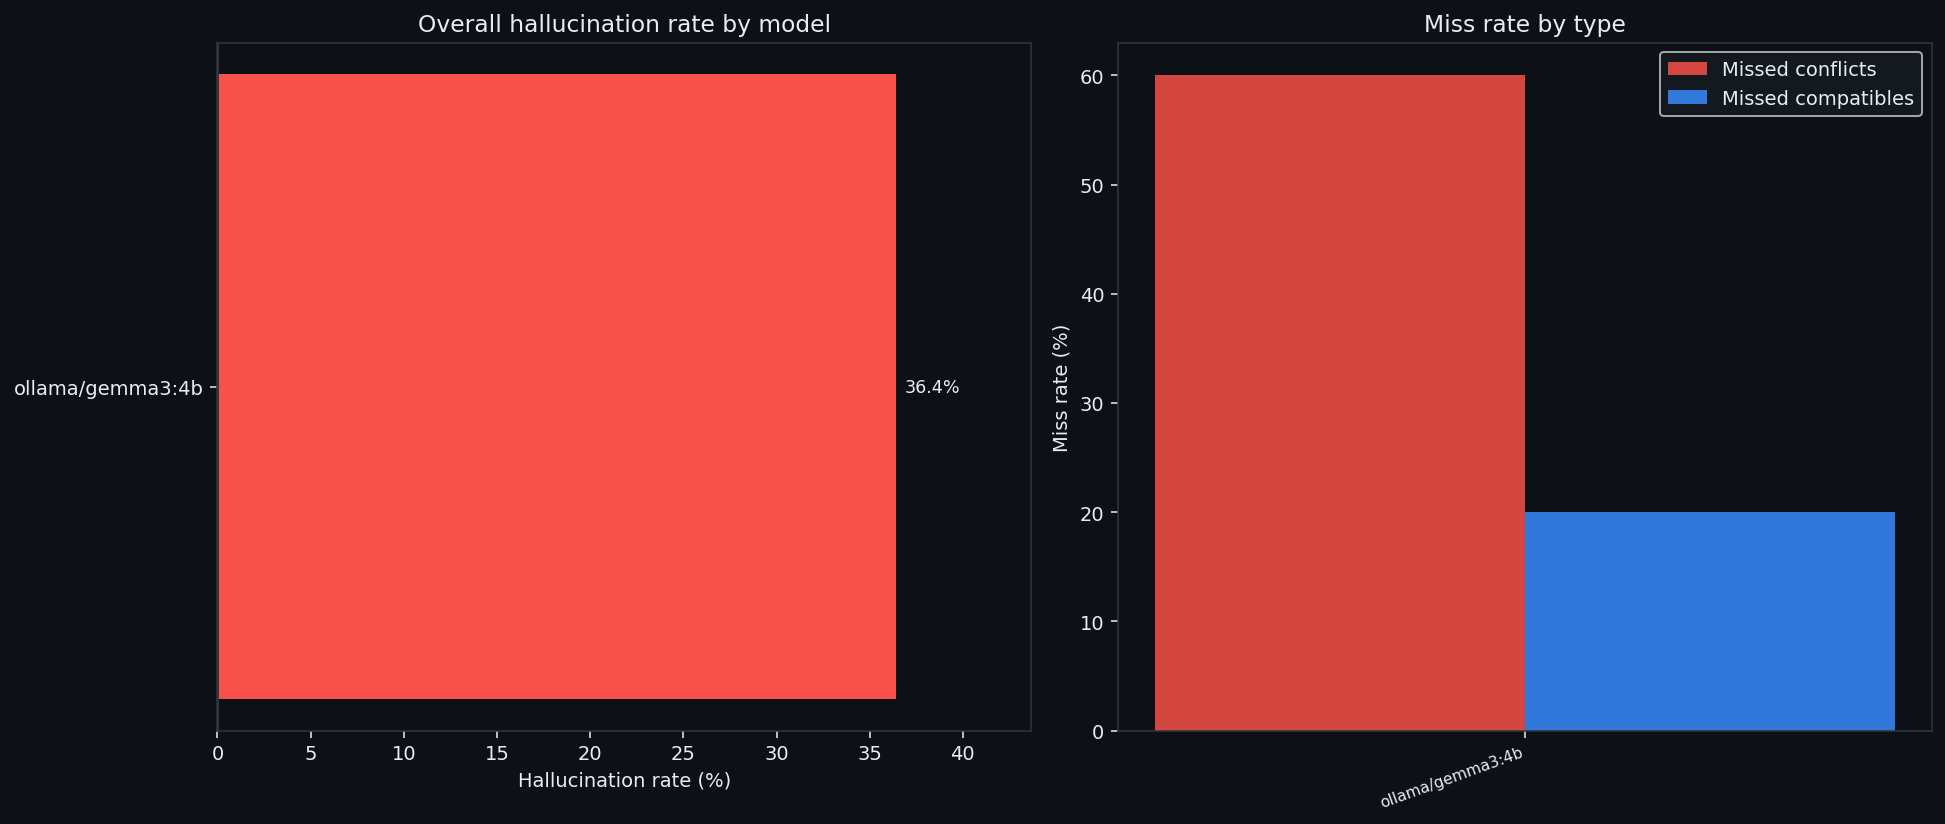
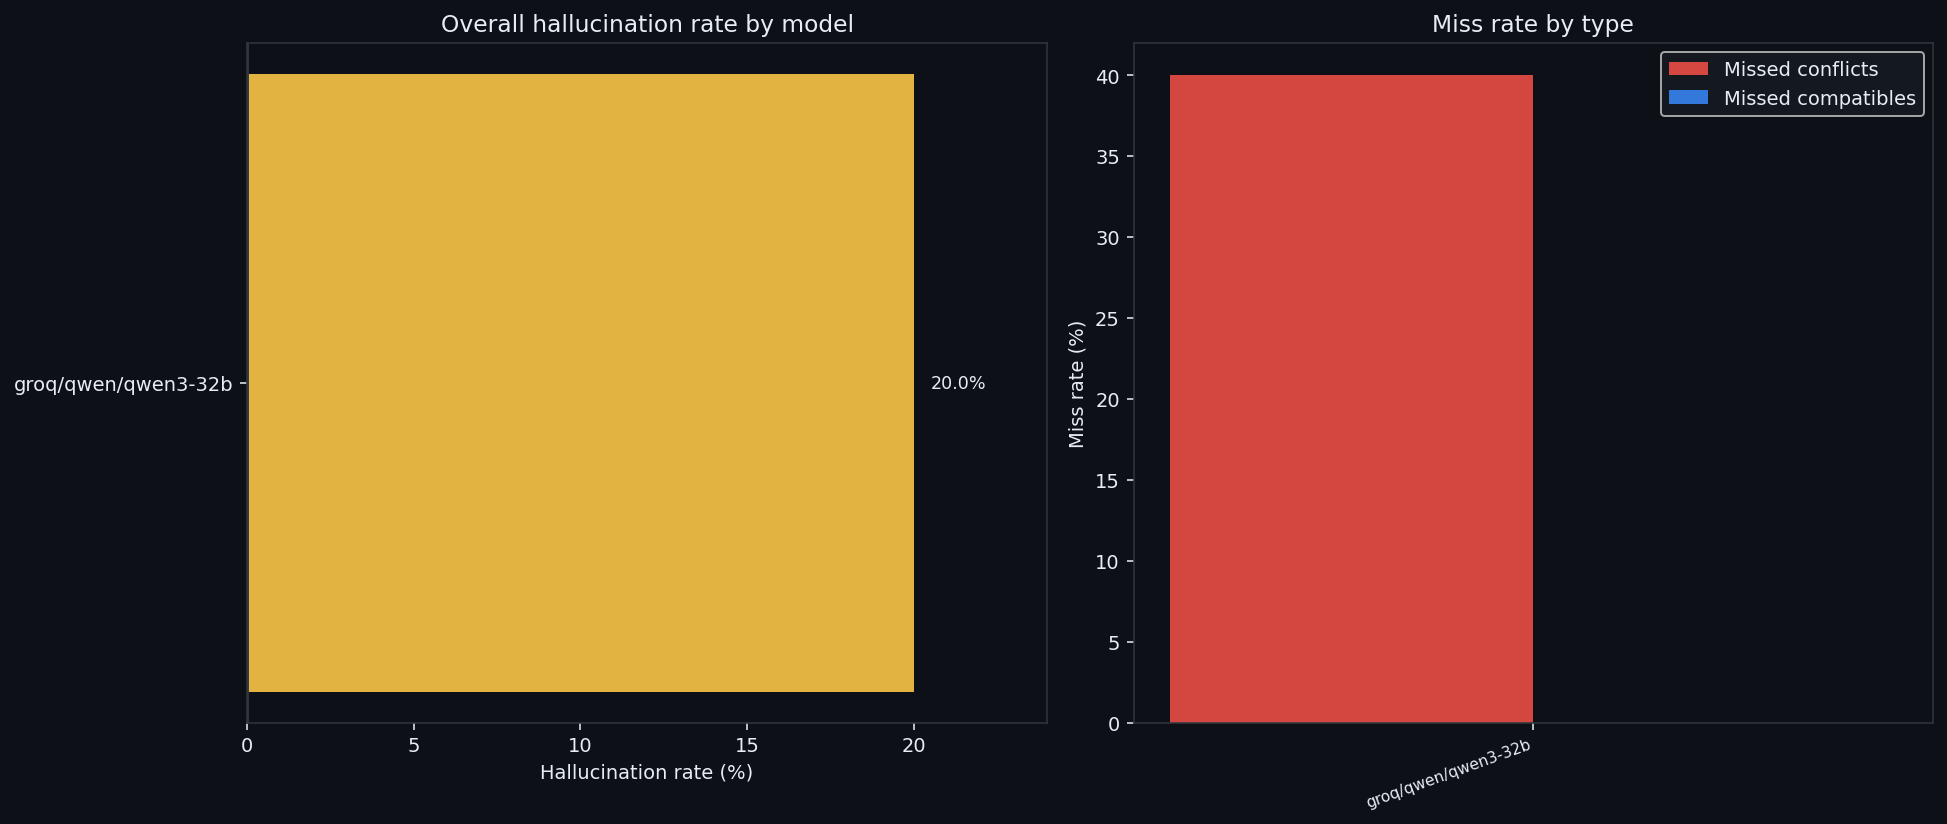
Add variable curve infrastructure and qwen3-32b results
- benchmark.py: --vars flag, expression pools for 5/7/10 vars,
  fix variable regex to A-Z, --no-think for thinking models,
  exponential backoff on 429 rate limits, User-Agent fix for Groq
- curve.py: runs one model across variable counts (3,5,7,10),
  saves to results/curve/
- curve_plot.py: plots hallucination rate vs complexity per model
- images/curve.png: qwen3-32b flat at 16-19% across all var counts

diff --git a/curve.py b/curve.py
@@ -1,0 +1,132 @@
+#!/usr/bin/env python3
+"""
+curve.py — Run one model across variable counts to find its breaking point.
+
+Usage:
+  python3 curve.py --provider groq --model llama-3.1-8b-instant --cases 100
+  python3 curve.py --provider ollama --model gemma3:4b --cases 20
+
+Results saved to results/curve/{model}/{n}vars_{timestamp}.json
+"""
+
+import os
+import sys
+import json
+import argparse
+from datetime import datetime
+
+sys.path.insert(0, os.path.dirname(os.path.abspath(__file__)))
+
+from rich.console import Console
+from rich.table import Table
+from rich import box
+
+from benchmark import generate_cases, verify_with_z3, run_benchmark, build_providers
+
+console = Console()
+
+VAR_COUNTS = [3, 5, 7, 10]
+
+
+def save_curve_result(summary: dict, n_vars: int):
+    model = summary["model"]
+    safe_model = model.replace("/", "_").replace(":", "-")
+    ts = datetime.now().strftime("%Y%m%d_%H%M%S")
+    path = os.path.join("results", "curve", safe_model)
+    os.makedirs(path, exist_ok=True)
+    filename = os.path.join(path, f"{n_vars}vars_{ts}.json")
+    summary["n_vars"] = n_vars
+    with open(filename, "w") as f:
+        json.dump(summary, f, indent=2)
+    return filename
+
+
+def print_curve_summary(model_name: str, curve: list):
+    table = Table(
+        title=f"[bold white]Variable curve — {model_name}[/bold white]",
+        box=box.SIMPLE_HEAVY, border_style="blue", expand=False,
+    )
+    table.add_column("vars (n)", style="cyan", justify="center")
+    table.add_column("truth table rows", style="dim", justify="right")
+    table.add_column("hallucination rate", justify="center")
+    table.add_column("missed conflicts", justify="center")
+    table.add_column("missed compatibles", justify="center")
+
+    for entry in curve:
+        n = entry["n_vars"]
+        rate = entry["hallucination_rate"]
+        colour = "red" if rate > 60 else "yellow" if rate > 30 else "green"
+        mc = entry.get("missed_conflicts", 0)
+        mp = entry.get("missed_compat", 0)
+        half = entry["total"] // 2
+        table.add_row(
+            str(n),
+            str(2 ** n),
+            f"[{colour}]{rate:.1f}%[/{colour}]",
+            f"{mc}/{half}",
+            f"{mp}/{half}",
+        )
+
+    console.print(table)
+
+
+if __name__ == "__main__":
+    parser = argparse.ArgumentParser(description="Variable curve benchmark")
+    parser.add_argument("--provider", choices=["ollama", "groq", "openai", "anthropic"],
+                        default="groq")
+    parser.add_argument("--model", default="llama-3.1-8b-instant")
+    parser.add_argument("--cases", type=int, default=100,
+                        help="Cases per variable count (split 50/50)")
+    parser.add_argument("--workers", type=int, default=8)
+    parser.add_argument("--seed", type=int, default=42)
+    parser.add_argument("--vars", nargs="+", type=int, default=VAR_COUNTS,
+                        help="Variable counts to test (default: 3 5 7 10)")
+    parser.add_argument("--no-think", action="store_true",
+                        help="Prepend /no_think to prompt (for qwen3 and other thinking models)")
+    parser.add_argument("--web", action="store_true",
+                        help="Stream results to live dashboard at localhost:8080")
+    args = parser.parse_args()
+
+    args.all = False
+    providers = build_providers(args)
+    if not providers:
+        print("No providers configured. Check API keys or --provider flag.")
+        sys.exit(1)
+    provider = providers[0]
+
+    dashboard = None
+    if args.web:
+        from dashboard import Dashboard
+        dashboard = Dashboard(port=8080)
+        dashboard.start()
+        console.print("[bold blue]Dashboard:[/bold blue] http://localhost:8080")
+
+    n_each = max(1, args.cases // 2)
+    curve = []
+
+    for n_vars in sorted(args.vars):
+        console.print(f"\n[bold blue]── n={n_vars} vars  ({2**n_vars} truth table rows) ──[/bold blue]")
+        cases = generate_cases(n_each=n_each, seed=args.seed, n_vars=n_vars)
+        if not verify_with_z3(cases):
+            console.print(f"[red]z3 verification failed at n={n_vars} — skipping.[/red]")
+            continue
+        summary = run_benchmark(provider, cases, workers=args.workers, dashboard=dashboard,
+                               no_think=args.no_think)
+        if summary:
+            summary["n_vars"] = n_vars
+            path = save_curve_result(summary, n_vars)
+            console.print(f"[dim]Saved: {path}[/dim]")
+            curve.append(summary)
+
+    if curve:
+        console.print()
+        print_curve_summary(provider.name, curve)
+        console.print("\n[dim]Run curve_plot.py to generate the chart.[/dim]")
+
+    if dashboard:
+        import threading
+        console.print("\n[dim]Dashboard still running at http://localhost:8080 — Ctrl+C to exit.[/dim]")
+        try:
+            threading.Event().wait()
+        except KeyboardInterrupt:
+            pass

diff --git a/curve_plot.py b/curve_plot.py
@@ -1,0 +1,94 @@
+#!/usr/bin/env python3
+"""
+curve_plot.py — Plot hallucination rate vs variable count for each model.
+
+Reads all JSONs under results/curve/ and produces images/curve.png.
+
+Usage:
+  python3 curve_plot.py
+"""
+
+import os
+import json
+import glob
+from collections import defaultdict
+
+import matplotlib
+matplotlib.use("Agg")
+import matplotlib.pyplot as plt
+
+RESULTS_DIR = os.path.join("results", "curve")
+OUT_PATH    = os.path.join("images", "curve.png")
+
+BG      = "#0d1117"
+BG2     = "#161b22"
+BORDER  = "#30363d"
+TEXT    = "#e6edf3"
+MUTED   = "#8b949e"
+
+PALETTE = [
+    "#58a6ff", "#3fb950", "#f85149", "#d29922",
+    "#bc8cff", "#ff7b72", "#79c0ff", "#56d364",
+]
+
+
+def load_results() -> dict:
+    model_data = defaultdict(dict)
+    pattern = os.path.join(RESULTS_DIR, "**", "*.json")
+    for path in glob.glob(pattern, recursive=True):
+        with open(path) as f:
+            data = json.load(f)
+        model = data.get("model", "unknown")
+        n_vars = data.get("n_vars")
+        if n_vars is None:
+            continue
+        # keep latest result per (model, n_vars)
+        if n_vars not in model_data[model] or data["timestamp"] > model_data[model][n_vars]["timestamp"]:
+            model_data[model][n_vars] = data
+    return model_data
+
+
+def plot(model_data: dict):
+    if not model_data:
+        print("No curve results found in results/curve/ — run curve.py first.")
+        return
+
+    fig, ax = plt.subplots(figsize=(10, 6))
+    fig.patch.set_facecolor(BG)
+    ax.set_facecolor(BG)
+
+    for i, (model, by_vars) in enumerate(sorted(model_data.items())):
+        xs = sorted(by_vars.keys())
+        ys = [by_vars[n]["hallucination_rate"] for n in xs]
+        colour = PALETTE[i % len(PALETTE)]
+        ax.plot(xs, ys, marker="o", linewidth=2, markersize=7,
+                color=colour, label=model)
+        for x, y in zip(xs, ys):
+            ax.annotate(f"{y:.0f}%", (x, y),
+                        textcoords="offset points", xytext=(0, 8),
+                        ha="center", fontsize=8, color=colour)
+
+    ax.set_xlabel("Variable count (n)", color=TEXT, fontsize=11)
+    ax.set_ylabel("Hallucination rate (%)", color=TEXT, fontsize=11)
+    ax.set_title("LLM hallucination rate vs logical complexity",
+                 color=TEXT, fontsize=13, pad=14)
+    ax.set_ylim(0, 105)
+    ax.axhline(50, color=MUTED, linewidth=0.8, linestyle="--", alpha=0.5,
+               label="coin flip (50%)")
+    ax.axhline(100, color=BORDER, linewidth=0.6, linestyle=":")
+    ax.tick_params(colors=TEXT)
+    ax.spines[:].set_edgecolor(BORDER)
+    ax.set_facecolor(BG2)
+
+    legend = ax.legend(facecolor=BG2, labelcolor=TEXT, edgecolor=BORDER,
+                       fontsize=9, loc="upper left")
+
+    plt.tight_layout()
+    os.makedirs("images", exist_ok=True)
+    plt.savefig(OUT_PATH, dpi=140, bbox_inches="tight", facecolor=BG)
+    plt.close()
+    print(f"Chart saved: {OUT_PATH}")
+
+
+if __name__ == "__main__":
+    plot(load_results())

diff --git a/benchmark.py b/benchmark.py
@@ -69,6 +69,55 @@ EXPRESSIONS = [
     "A.B.!C", "!A+B.C",
 ]
 
+EXPRESSIONS_5VAR = [
+    "A", "B", "C", "D", "E",
+    "!A", "!B", "!C", "!D", "!E",
+    "A.E", "B.E", "C.E", "D.E",
+    "A+E", "B+E", "C+E", "D+E",
+    "A.!E", "!A.E", "B.!E", "!B.E",
+    "A.B.E", "C.D.E", "A+B+E",
+    "A.B+C.E", "A.(B+E)", "C.(D+E)",
+    "!A.!E", "!D.!E",
+    "A^E", "!(A.E)",
+    "A.B.C.D.E", "!A.!B.!C.!D.!E",
+    "(A+B).(D+E)", "A.B+D.E",
+    "!A+B.E", "A+!B.!E",
+]
+
+EXPRESSIONS_7VAR = [
+    "A", "B", "C", "D", "E", "F", "G",
+    "!F", "!G", "A.F", "B.G", "C.F",
+    "A+F", "B+G", "!F.!G",
+    "A.B.F", "C.D.G", "E.F.G",
+    "A.!F", "!A.F", "B.!G", "!B.G",
+    "A.B+F.G", "C.(D+F)", "E.(F+G)",
+    "!A.!F.!G", "(A+F).(B+G)",
+    "A^F", "F.G", "!(F.G)",
+    "A.B.C.F", "D.E.F.G",
+    "!D.!E.!F.!G", "A+B+F+G",
+]
+
+EXPRESSIONS_10VAR = [
+    "A", "B", "C", "D", "E",
+    "!H", "!I", "!J", "H.I", "H.J",
+    "A.H", "B.I", "C.J", "D.H", "E.I",
+    "A+H", "B+I", "C+J",
+    "A.!H", "!A.H", "B.!I", "!B.I",
+    "A.B.H", "C.D.I", "E.F.J",
+    "H.I.J", "!H.!I.!J",
+    "A.B+H.I", "(A+H).(B+I)",
+    "A.H+B.I+C.J", "!(H.I.J)",
+    "A^H", "H+I+J",
+    "A.B.C.H.I", "D.E.F.G.J",
+]
+
+_VAR_POOL = {
+    3: EXPRESSIONS, 4: EXPRESSIONS,
+    5: EXPRESSIONS_5VAR,
+    7: EXPRESSIONS_7VAR,
+    10: EXPRESSIONS_10VAR,
+}
+
 PROMPT_TEMPLATE = """\
 Boolean logic question. Operators: . = AND,  + = OR,  ! = NOT,  ^ = XOR
 
@@ -77,6 +126,8 @@ Rule 2: {e2}
 
 Can both rules be satisfied simultaneously — is there any input where both are true?
 Answer with only the single word 'yes' or 'no'. No explanation."""
+
+PROMPT_TEMPLATE_NO_THINK = "/no_think\n" + PROMPT_TEMPLATE
 
 
 # ---------------------------------------------------------------------------
@@ -137,11 +188,23 @@ class OpenAICompatProvider(Provider):
             headers={
                 "Content-Type": "application/json",
                 "Authorization": f"Bearer {self.api_key}",
+                "User-Agent": "curl/7.68.0",
             },
         )
-        with urllib.request.urlopen(req, timeout=120) as resp:
-            answer = json.loads(resp.read())["choices"][0]["message"]["content"].strip().lower()
-        return "yes" in answer
+        wait = 5
+        for attempt in range(6):
+            try:
+                with urllib.request.urlopen(req, timeout=120) as resp:
+                    answer = json.loads(resp.read())["choices"][0]["message"]["content"].strip().lower()
+                return "yes" in answer
+            except urllib.error.HTTPError as e:
+                if e.code == 429:
+                    import time
+                    time.sleep(wait)
+                    wait = min(wait * 2, 60)
+                else:
+                    raise
+        raise RuntimeError(f"Rate limit: gave up after 6 retries")
 
 
 class AnthropicProvider(Provider):
@@ -182,13 +245,14 @@ def can_both_be_true(e1: str, e2: str):
         return None
 
 
-def generate_cases(n_each: int = 50, seed: int = 42):
+def generate_cases(n_each: int = 50, seed: int = 42, n_vars: int = 4):
     random.seed(seed)
+    pool = _VAR_POOL.get(n_vars, EXPRESSIONS)
     conflicts, compatibles = [], []
     tried = set()
 
     while len(conflicts) < n_each or len(compatibles) < n_each:
-        e1, e2 = random.choice(EXPRESSIONS), random.choice(EXPRESSIONS)
+        e1, e2 = random.choice(pool), random.choice(pool)
         if (e1, e2) in tried or e1 == e2:
             continue
         tried.add((e1, e2))
@@ -212,7 +276,7 @@ def generate_cases(n_each: int = 50, seed: int = 42):
 
 def _expr_to_z3(expr):
     import z3
-    z3_vars = {v: z3.Bool(v) for v in sorted(set(re.findall(r"[A-D]", expr)))}
+    z3_vars = {v: z3.Bool(v) for v in sorted(set(re.findall(r"[A-Z]", expr)))}
     # operator translation: our syntax → Python bitwise ops (z3 overloads these)
     z3_expr = expr.replace("!", "~").replace(".", "&").replace("+", "|")
     return eval(z3_expr, {"__builtins__": {}}, z3_vars)
@@ -325,7 +389,7 @@ def _print_config(provider: Provider, cases: list, workers: int):
 
 
 def run_benchmark(provider: Provider, cases: list, workers: int = 8,
-                   dashboard=None) -> dict:
+                   dashboard=None, no_think: bool = False) -> dict:
     results = []
     total = len(cases)
 
@@ -337,9 +401,11 @@ def run_benchmark(provider: Provider, cases: list, workers: int = 8,
         all_vars   = sorted(set(re.findall(r"[A-D]", " ".join(e1 + e2 for e1, e2, _ in cases))))
         dashboard.push_config(provider.name, total, n_conflict, n_compat, all_vars, min(workers, total))
 
+    template = PROMPT_TEMPLATE_NO_THINK if no_think else PROMPT_TEMPLATE
+
     def run_case(case):
         e1, e2, ground_truth = case
-        llm_answer = provider.ask(PROMPT_TEMPLATE.format(e1=e1, e2=e2))
+        llm_answer = provider.ask(template.format(e1=e1, e2=e2))
         return {"e1": e1, "e2": e2, "ground_truth": ground_truth,
                 "llm": llm_answer, "correct": llm_answer == ground_truth}
 
@@ -570,6 +636,10 @@ if __name__ == "__main__":
                         help="Parallel workers for concurrent inference calls (default: 8)")
     parser.add_argument("--all", action="store_true",
                         help="Run all configured providers")
+    parser.add_argument("--vars", type=int, default=4, choices=[3, 4, 5, 7, 10],
+                        help="Variable count to scope case generation")
+    parser.add_argument("--no-think", action="store_true",
+                        help="Prepend /no_think to prompt (for qwen3 and other thinking models)")
     parser.add_argument("--seed", type=int, default=42)
     parser.add_argument("--web", action="store_true",
                         help="Open live dashboard at localhost:8080")
@@ -578,7 +648,7 @@ if __name__ == "__main__":
     n_each = max(1, args.cases // 2)
     total_cases = n_each * 2
     print(f"Generating {total_cases} test cases ({n_each} conflicting, {n_each} compatible)...")
-    cases = generate_cases(n_each=n_each, seed=args.seed)
+    cases = generate_cases(n_each=n_each, seed=args.seed, n_vars=args.vars)
 
     if not verify_with_z3(cases):
         sys.exit(1)
@@ -598,7 +668,8 @@ if __name__ == "__main__":
 
     summaries = []
     for provider in providers:
-        summary = run_benchmark(provider, cases, workers=args.workers, dashboard=dashboard)
+        summary = run_benchmark(provider, cases, workers=args.workers, dashboard=dashboard,
+                               no_think=args.no_think)
         if summary:
             save_result(summary)
             plot_comparison([summary])